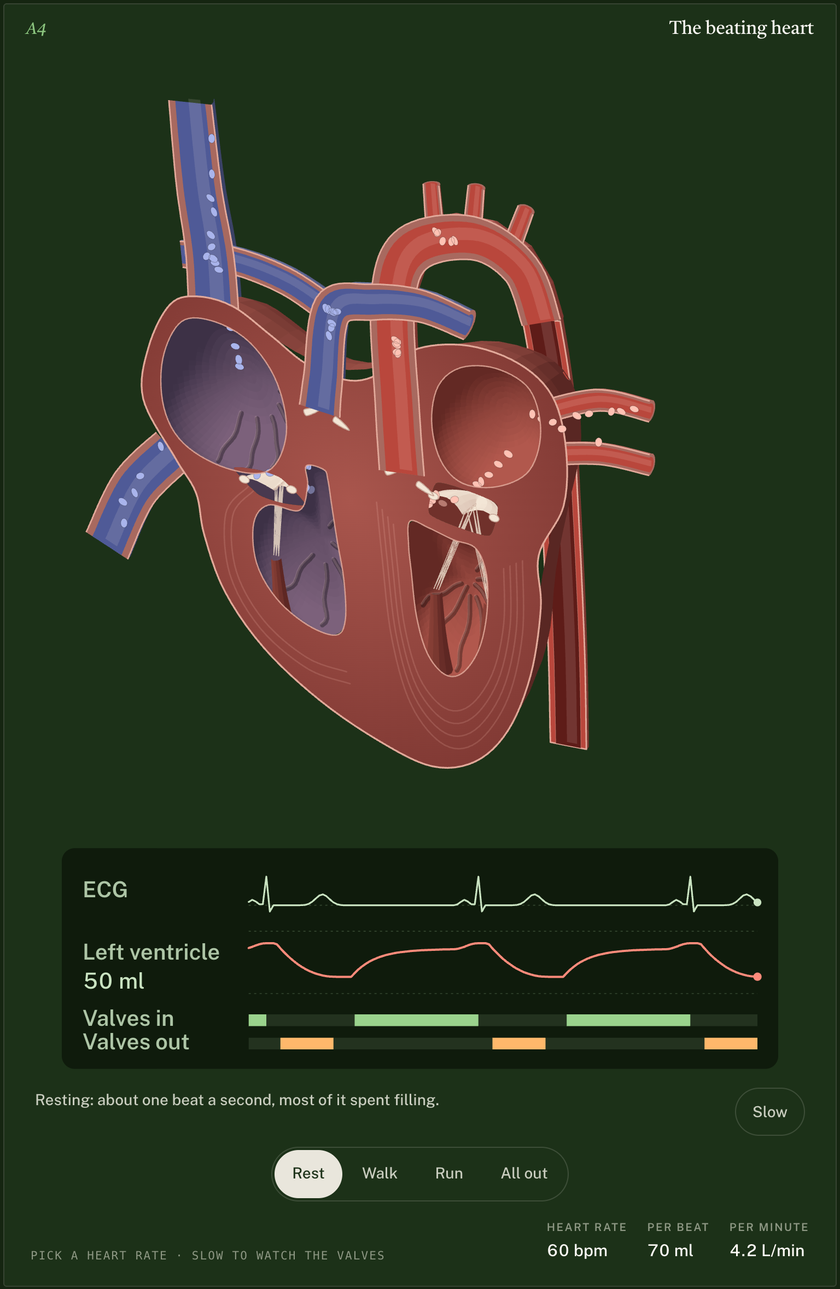
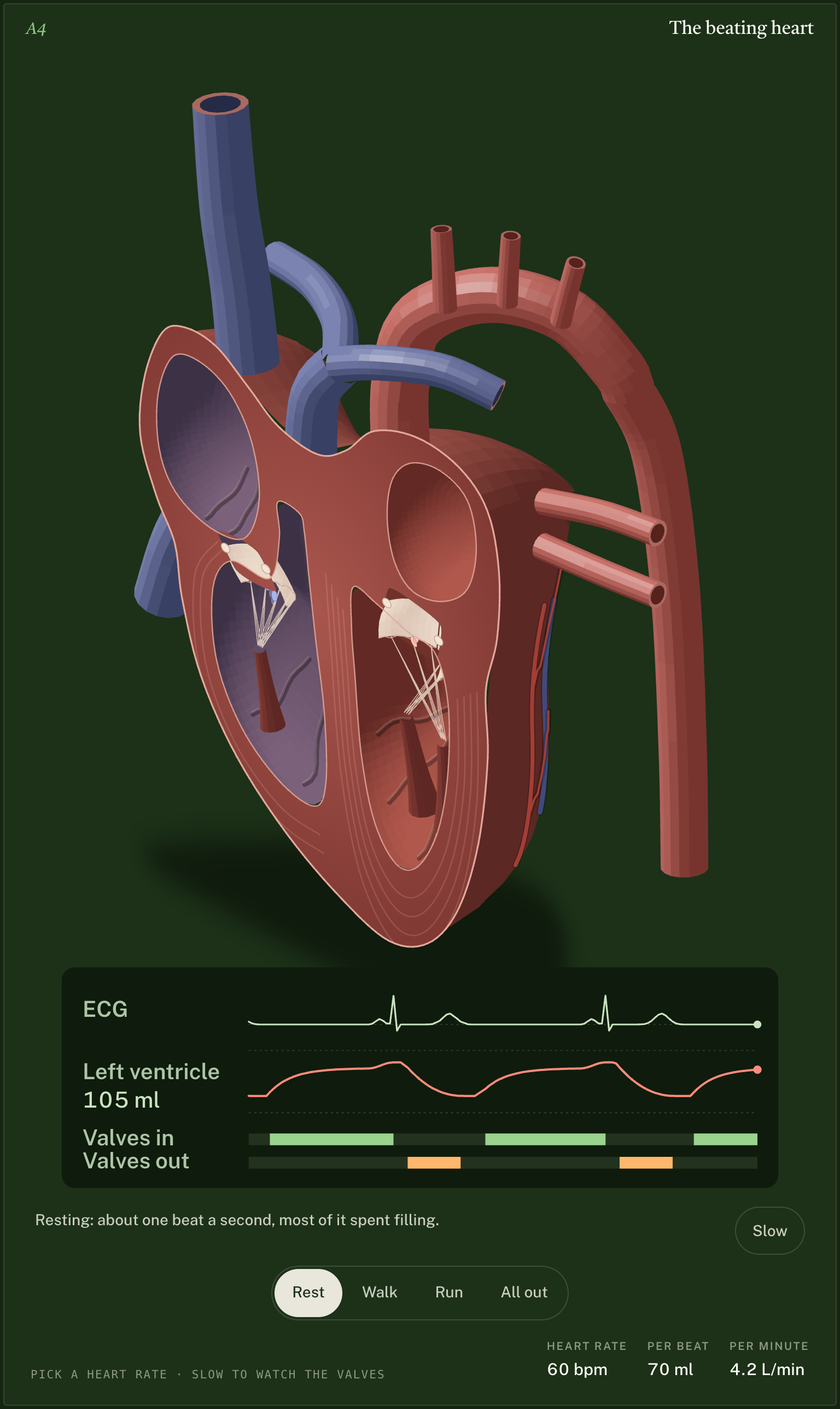
A4 heart round 5: more three-dimensional
Peter on round 4: "the heart needs to be MORE three dimensional please".

- Camera turned to azimuth 40°, elevation 26° for A4 only (the series uses
  62°/24°), so the heart's round right side and the vessels' depth show.
- Great vessels are now whole 3-D tubes: parallel-transport sweeps with
  specular highlights and cut-end caps (wall ring + lumen). Aortic arch with
  its three branches into the descending aorta (behind the heart), the
  pulmonary trunk splitting into left and right arteries, SVC and IVC, and
  two pulmonary veins.
- Back half is smoother (96 points, 14 bands) with a specular sheen and a
  coronary artery and vein with branches. Soft floor shadow underneath.
  Round 4's flat fat patch is removed.
- Cells, leaflets, chordae and papillary muscles are clipped to their
  openings, so nothing deep in a cavity draws over the cut muscle.
- Plate bounds respect outline winding (OUT_SIGN), which closes the gap
  under the heart. The monitor sits just below it.
- Beat model, numbers and timing unchanged. 60 fps at 390 px. verify passes
  at 390/360/320 in both themes.
- NOTES round 5, HANDOFF-LOCAL status, contact sheet and the beat GIF
  are refreshed.

diff --git a/figures/a4-heart/live.js b/figures/a4-heart/live.js
@@ -70,19 +70,6 @@ function mount(fig) {
     const closed = `${ln([...L, ...[...R].reverse()])}Z`;
     return sides ? { d: closed, edges: ln(L) + ln(R), L, R } : closed;
   }
-  /** A vessel, cut open lengthwise like the heart: a wall band each side, the blood down the middle with the
-   *  lit far wall of the half-pipe showing as a soft band. Its back half and cut ends are drawn behind the cut. */
-  const tubes = [];
-  function vessel(name, list, cls) {
-    let h = "";
-    for (const [pts, w0, w1, capA, capB] of list) {
-      tubes.push({ name, pts, w0, w1, cls, caps: [capA, capB] });
-      const t = tube(pts, w0, w1, true);
-      const lit = tube(pts, w0 * 0.28, w1 * 0.28, true);
-      h += `<path class="a4-${cls} a4-vessel a4-vessel-fill" d="${t.d}"/><path class="a4-lumen a4-lumen-${cls} a4-lumen-cut" d="${tube(pts, w0 * 0.7, w1 * 0.7)}"/><path class="a4-lumen-lit a4-lumen-lit-${cls}" d="${lit.d}" transform="translate(${f1(DATA.far.w[0] * w0 * 0.18)} ${f1(DATA.far.w[1] * w0 * 0.18)})"/><path class="a4-vessel-edge" d="${t.edges}"/>`;
-    }
-    q(`[data-v="${name}"]`).innerHTML = h;
-  }
   const centroid = (pts) => pts.reduce((a, p) => [a[0] + p[0] / pts.length, a[1] + p[1] / pts.length], [0, 0]);
   const C = { RA: centroid(G.RA), LA: centroid(G.LA), RV: centroid(G.RV), LV: centroid(G.LV), V: [320, 392] };
   const FIB = { lv: G.LV.filter((p) => p[1] > G.AVY + 16), rv: G.RV.slice(0, 6) };
@@ -131,6 +118,13 @@ function mount(fig) {
     const l = dot3(n, LIGHT);
     return 0.16 + 0.95 * Math.max(0, two ? Math.abs(l) : l);
   };
+  // wet surfaces (the heart's outer wall, the vessels) also catch a specular highlight
+  const HALF = norm3([LIGHT[0] + VIEW[0], LIGHT[1] + VIEW[1], LIGHT[2] + VIEW[2]]);
+  const shine = (n, tones, k = 0.5, pw = 26) => {
+    const base = mixc(tones[0], tones[1], Math.round(clamp(lit(n), 0, 1) * 24) / 24);
+    const sp = Math.round(k * Math.pow(Math.max(0, dot3(n, HALF)), pw) * 10) / 10;
+    return rgb(mixc(base, WHITE, sp));
+  };
   const quad = (pts) => `M${pts.map((v) => `${f1(v[0])} ${f1(v[1])}`).join("L")}Z`;
   const pathOf = (pts) => `M${pts.map((v) => `${f1(v[0])} ${f1(v[1])}`).join("L")}`;
   const cssc = (name, fb) => RB.rgbOf(fig, name, fb);
@@ -172,7 +166,7 @@ function mount(fig) {
     });
   }
   function backHalf(outline) {
-    const pts = closedRing(outline, 72);
+    const pts = closedRing(outline, 96);
     const n = pts.length;
     let area = 0;
     for (let i = 0; i < n; i++) area += pts[i][0] * pts[(i + 1) % n][1] - pts[(i + 1) % n][0] * pts[i][1];
@@ -192,7 +186,7 @@ function mount(fig) {
     };
     const normal = (i, ph) => norm3([Math.cos(ph) * nrm[i][0], -Math.sin(ph), -Math.cos(ph) * nrm[i][1]]);
     const facets = [];
-    const NPH = 9;
+    const NPH = 14;
     for (let i = 0; i < n; i++) {
       const i1 = (i + 1) % n;
       for (let j = 0; j < NPH; j++) {
@@ -201,7 +195,7 @@ function mount(fig) {
         const nn = normal(i, (p0 + p1) / 2);
         if (dot3(nn, VIEW) <= 0.01) continue;
         const a = at(i, p0), b = at(i1, p0), c = at(i1, p1), d = at(i, p1);
-        facets.push({ key: key3((a[0] + c[0]) / 2, (a[1] + c[1]) / 2, (a[2] + c[2]) / 2), d: quad([P3(...a), P3(...b), P3(...c), P3(...d)]), fill: tone(T.epi, lit(nn)) });
+        facets.push({ key: key3((a[0] + c[0]) / 2, (a[1] + c[1]) / 2, (a[2] + c[2]) / 2), d: quad([P3(...a), P3(...b), P3(...c), P3(...d)]), fill: shine(nn, T.epi, 0.42) });
       }
     }
     // surface vessels on the left side (viewer's right): the circumflex in the fat of the AV groove,
@@ -224,11 +218,24 @@ function mount(fig) {
       if (!groove(pts[i], nrm[i])) continue;
       const i1 = (i + 1) % n;
       if (!groove(pts[i1], nrm[i1]) || !visible(i, 0.6)) continue;
-      fat += quad([P3(...at(i, 0.18)), P3(...at(i1, 0.18)), P3(...at(i1, 1.0)), P3(...at(i, 1.0))]);
+      fat += quad([P3(...at(i, 0.85)), P3(...at(i1, 0.85)), P3(...at(i1, 1.5)), P3(...at(i, 1.5))]);
     }
-    const vein = runAlong(0.78, (p, nn) => right(p, nn) && p[1] > G.AVY - 10);
-    const artery = runAlong(0.52, (p, nn) => right(p, nn) && p[1] > G.AVY - 18);
-    const surf = `<path class="a4-epi-fat" d="${fat}" fill="${FAT}"/><path class="a4-cor-edge" d="${vein}"/><path class="a4-cor" d="${vein}" stroke="${COR_VEN}"/><path class="a4-cor-edge a4-cor-edge-a" d="${artery}"/><path class="a4-cor a4-cor-a" d="${artery}" stroke="${COR_ART}"/>`;
+    // (at this camera the back wall faces the viewer up to about 0.85 rad round from the cut)
+    const vein = runAlong(0.62, (p, nn) => right(p, nn) && p[1] > G.AVY - 10);
+    const artery = runAlong(0.4, (p, nn) => right(p, nn) && p[1] > G.AVY - 18);
+    // small branches off the marginal artery, running round the back wall
+    let twigs = "";
+    for (let i = 0; i < n; i += 8) {
+      if (!(right(pts[i], nrm[i]) && pts[i][1] > G.AVY + 20) || !visible(i, 0.4)) continue;
+      const tw = [];
+      for (let ph = 0.4; ph <= 0.8; ph += 0.05) {
+        const ii = Math.min(n - 1, i + Math.round((ph - 0.4) * 14));
+        if (visible(ii, ph)) tw.push(P3(...at(ii, ph)));
+      }
+      if (tw.length > 1) twigs += pathOf(tw);
+    }
+    void fat;
+    const surf = `<path class="a4-cor-edge" d="${vein}"/><path class="a4-cor" d="${vein}" stroke="${COR_VEN}"/><path class="a4-cor-edge a4-cor-edge-a" d="${artery}${twigs}"/><path class="a4-cor a4-cor-a" d="${artery}" stroke="${COR_ART}"/><path class="a4-cor a4-cor-twig" d="${twigs}" stroke="${COR_ART}"/>`;
     return { facets, surf };
   }
 
@@ -544,7 +551,6 @@ function mount(fig) {
     const contr = Math.min(1, Math.max(0, (b.edv - b.V) / (b.edv - b.esv)));
     def = { d: 15 * contr, sV, sA: b.A, sO: 1 - 0.22 * (1 - sV) };
     const sAt = 0.78 + 0.22 * b.A;
-    tubes.length = 0;
     const outline = outer();
     const outerD = smooth(outline);
     set('[data-part="outer"]', outerD);
@@ -558,37 +564,9 @@ function mount(fig) {
       LV: chamber(shapes.LV, 0.82 * (0.85 + 0.15 * sV), T.cavL, RIDGE.LV),
     };
     for (const k of ["RA", "LA", "RV", "LV"]) set(`[data-part="clip${k}"]`, cham[k].outline);
-    // vessels: tops fixed, roots ride the valve plane
-    vessel("svc", [[[[158, -12], [166, 60], [176, 120], shift([180, 176])], 38, 46, false, false]], "ven");
-    vessel("ivc", [[[[84, 384], [108, 330], shift([142, 276])], 40, 38, true, false]], "ven");
-    vessel("desc", [[[[470, 110], [480, 170], [486, 260], [492, 380], [494, 470]], 34, 32, false, true]], "art");
-    vessel("aorta", [[[shift(G.AORc), shift([342, 196]), [338, 120], [356, 72], [410, 52], [452, 70], [470, 112]], 40, 36, false, false]], "art");
-    vessel("branches", [[[[376, 60], [372, 14]], 16, 14, false, true], [[[408, 52], [412, 8]], 16, 14, false, true], [[[440, 62], [456, 18]], 16, 14, false, true]], "art");
-    vessel("pt", [[[shift(G.PULc), shift([276, 186]), [284, 140], [318, 126], [362, 120], [404, 128]], 36, 26, false, true]], "ven");
-    vessel("rpa", [[[[284, 142], [244, 124], [196, 116], [150, 120]], 26, 22, false, true]], "ven");
-    vessel("pv", [[[[566, 168], [520, 168], shift([466, 176])], 18, 18, true, false], [[[566, 214], [520, 214], shift([464, 212])], 18, 18, true, false]], "art");
     // the back half: round outer wall with its surface vessels, and the vessels' back halves
     const back = backHalf(outline);
-    const LUMEN = { ven: rgb(VEN), art: rgb(ART) };
-    const WALL = rgb(cssc("--a4-vwall", "#f3d9cf"));
-    const backOf = (t) => {
-      const c = RB.byLength(curve(t.pts), 14);
-      const Ae = [];
-      const Be = [];
-      c.forEach((p, i) => {
-        const a = c[Math.max(0, i - 1)];
-        const bb = c[Math.min(c.length - 1, i + 1)];
-        const l = Math.hypot(bb[0] - a[0], bb[1] - a[1]) || 1;
-        const nn = [-(bb[1] - a[1]) / l, (bb[0] - a[0]) / l];
-        const w = (t.w0 + (t.w1 - t.w0) * (i / (c.length - 1))) / 2;
-        Ae.push([p[0] + nn[0] * w, p[1] + nn[1] * w]);
-        Be.push([p[0] - nn[0] * w, p[1] - nn[1] * w]);
-      });
-      return RB.chords(Ae, Be, { round: 1, nphi: 10, tones: T[t.cls], caps: t.caps, capFill: WALL, lumenFill: LUMEN[t.cls] });
-    };
-    // the descending aorta runs behind the heart: its back half (and its cut face) go under the heart's back half
-    q('[data-part="behind"]').innerHTML = RB.paintObjects(tubes.filter((t) => t.name === "desc").map(backOf));
-    q('[data-part="far"]').innerHTML = RB.paintObjects([back.facets, ...tubes.filter((t) => t.name !== "desc").map(backOf)]) + back.surf;
+    q('[data-part="far"]').innerHTML = RB.paintObjects([back.facets]) + back.surf;
     // inside the cavities: walls and ridges, valves, papillary muscles, chordae and cells
     const tri = avValve(G.TRI[0], G.TRI[1], b.av, C.RV, 27);
     const mit = avValve(G.MIT[0], G.MIT[1], b.av, C.LV, 31);
@@ -635,18 +613,28 @@ function mount(fig) {
     ]
       .map(([a, p]) => [-2.2, 0, 2.2].map((o) => `M${P3(...a).map(f1).join(" ")}L${P3(p[0] + o, p[1] - 3, p[2]).map(f1).join(" ")}`).join(""))
       .join("");
-    const side = (s) => chamberCells.filter((c) => c.side === s);
+    // each cell is clipped to the opening of the chamber it is in (deep cells would otherwise show outside the heart)
+    const roomOf = (c) => (c.stage === 1 ? (c.side === "R" ? "RA" : "LA") : c.side === "R" ? "RV" : "LV");
+    const cellsIn = (deep) =>
+      ["RA", "LA", "RV", "LV"]
+        .map((k) => {
+          const list = chamberCells.filter((c) => roomOf(c) === k);
+          const cls = k[0] === "R" ? "a4-cell-ven" : "a4-cell-art";
+          return list.length ? `<g clip-path="url(#a4-clip${k})"><path class="a4-cell ${cls}${deep ? " a4-cell-deep" : ""}" d="${cellPath(list, deep)}"/></g>` : "";
+        })
+        .join("");
     cavSvg +=
-      `<path class="a4-cell a4-cell-ven a4-cell-deep" d="${cellPath(side("R"), true)}"/><path class="a4-cell a4-cell-art a4-cell-deep" d="${cellPath(side("L"), true)}"/>` +
-      `<path class="a4-annulus-ring" d="${tri.ring}${mit.ring}"/>` +
+      cellsIn(true) +
+      `<g clip-path="url(#a4-clipAll)"><path class="a4-annulus-ring" d="${tri.ring}${mit.ring}"/>` +
       RB.paint(papFacets) +
       leafFacets.map((f) => `<path d="${f.d}" fill="${f.fill}" stroke="${f.fill}" stroke-width="0.6" class="a4-leaf"/>`).join("") +
       `<path class="a4-leaf-edge" d="${tri.edgeD}${mit.edgeD}"/>` +
-      `<path class="a4-chordae" d="${chordD}"/>` +
-      `<path class="a4-cell a4-cell-ven" d="${cellPath(side("R"), false)}"/><path class="a4-cell a4-cell-art" d="${cellPath(side("L"), false)}"/>`;
+      `<path class="a4-chordae" d="${chordD}"/></g>` +
+      cellsIn(false);
     q('[data-part="cav"]').innerHTML = cavSvg;
     // the cut face: muscle with the chamber openings (and the AV orifices) cut out of it
     set('[data-part="holes"]', ["RA", "LA", "RV", "LV"].map((k) => cham[k].outline).join("") + orifice(tri) + orifice(mit));
+    set('[data-part="clipAll"]', ["RA", "LA", "RV", "LV"].map((k) => cham[k].outline).join("") + orifice(tri) + orifice(mit));
     set('[data-part="rims"]', ["RA", "LA", "RV", "LV"].map((k) => cham[k].outline).join(""));
     set('[data-part="annuli"]', [...tri.ends, ...mit.ends].map((p) => `M${f1(p[0] - 4.5)} ${f1(p[1])}a4.5 3.2 0 1 0 9 0a4.5 3.2 0 1 0 -9 0Z`).join(""));
     // muscle fibres in the cut wall wrap the ventricles and squeeze with them
@@ -654,12 +642,107 @@ function mount(fig) {
     const sMid = (sV + def.sO) / 2;
     set('[data-part="fibres"]', [1.12, 1.24, 1.36, 1.48].map((k) => fib(FIB.lv, C.LV, k, sMid)).join("") + [1.1, 1.2].map((k) => fib(FIB.rv, C.RV, k, sMid)).join(""));
     set('[data-part="valves"]', semilunar(b));
-    // cells in the vessels (on the cut, in the open half-pipes)
-    const vesselCells = cells.filter((c) => c.stage === 0 || c.stage === 5);
-    for (const s of ["R", "L"]) {
-      const list = vesselCells.filter((c) => c.side === s);
-      set(`[data-part="vcells${s}"]`, list.map((c) => { const p = P3(c.p[0], c.p[1], c.d * 0.6); return disc(p[0], p[1], c.a, 4, 2.7); }).join(""));
+  }
+
+
+  // ---------------------------------------------------------------- the great vessels: whole tubes in 3-D (drawn once)
+  // Their visible parts (outside the heart) don't move with the beat, so they are built once. Each is a tube round
+  // a Catmull-Rom centreline in depth, framed by parallel transport, culled, lit with a specular highlight and
+  // painted back to front; a cut end shows as a ring of wall round the blood.
+  function tube3(ctrl, r0, r1, tones, caps) {
+    const cr = (p0, p1, p2, p3, t) => {
+      const t2 = t * t, t3 = t2 * t;
+      return [0, 1, 2].map((c) => 0.5 * (2 * p1[c] + (-p0[c] + p2[c]) * t + (2 * p0[c] - 5 * p1[c] + 4 * p2[c] - p3[c]) * t2 + (-p0[c] + 3 * p1[c] - 3 * p2[c] + p3[c]) * t3));
+    };
+    const dense = [];
+    for (let i = 0; i < ctrl.length - 1; i++) {
+      const p0 = ctrl[Math.max(0, i - 1)], p1 = ctrl[i], p2 = ctrl[i + 1], p3 = ctrl[Math.min(ctrl.length - 1, i + 2)];
+      for (let k = 0; k < 12; k++) dense.push(cr(p0, p1, p2, p3, k / 12));
     }
+    dense.push(ctrl[ctrl.length - 1]);
+    const acc = [0];
+    for (let i = 1; i < dense.length; i++) acc.push(acc[i - 1] + Math.hypot(dense[i][0] - dense[i - 1][0], dense[i][1] - dense[i - 1][1], dense[i][2] - dense[i - 1][2]));
+    const L = acc[acc.length - 1];
+    const M = Math.max(6, Math.round(L / 7));
+    const cs = [];
+    for (let q = 0, j = 0; q < M; q++) {
+      const want = (L * q) / (M - 1);
+      while (j < acc.length - 2 && acc[j + 1] < want) j++;
+      const t = (want - acc[j]) / (acc[j + 1] - acc[j] || 1);
+      cs.push(dense[j].map((v, c) => v + (dense[j + 1][c] - v) * t));
+    }
+    const tan = cs.map((p, i) => {
+      const a = cs[Math.max(0, i - 1)];
+      const b = cs[Math.min(cs.length - 1, i + 1)];
+      return norm3(toW([b[0] - a[0], b[1] - a[1], b[2] - a[2]]));
+    });
+    let nrm = norm3(cross3(cross3(tan[0], [0, 0, 1]), tan[0]));
+    if (!isFinite(nrm[0]) || Math.hypot(...nrm) < 0.5) nrm = norm3(cross3(cross3(tan[0], [1, 0, 0]), tan[0]));
+    const N = 16;
+    const rings = cs.map((c, i) => {
+      if (i) {
+        const d = dot3(nrm, tan[i]);
+        nrm = norm3([nrm[0] - d * tan[i][0], nrm[1] - d * tan[i][1], nrm[2] - d * tan[i][2]]);
+      }
+      const bin = cross3(tan[i], nrm);
+      const r = r0 + (r1 - r0) * (i / (cs.length - 1));
+      return Array.from({ length: N }, (_, j) => {
+        const a = (j / N) * 2 * Math.PI;
+        const v = [nrm[0] * Math.cos(a) + bin[0] * Math.sin(a), nrm[1] * Math.cos(a) + bin[1] * Math.sin(a), nrm[2] * Math.cos(a) + bin[2] * Math.sin(a)];
+        return { p: [c[0] + v[0] * r, c[1] - v[2] * r, c[2] - v[1] * r], v };
+      });
+    });
+    const facets = [];
+    for (let i = 0; i < rings.length - 1; i++)
+      for (let j = 0; j < N; j++) {
+        const a = rings[i][j], b = rings[i][(j + 1) % N], c = rings[i + 1][(j + 1) % N], d = rings[i + 1][j];
+        const nn = norm3([a.v[0] + b.v[0] + c.v[0] + d.v[0], a.v[1] + b.v[1] + c.v[1] + d.v[1], a.v[2] + b.v[2] + c.v[2] + d.v[2]]);
+        if (dot3(nn, VIEW) <= 0) continue;
+        facets.push({ key: key3((a.p[0] + c.p[0]) / 2, (a.p[1] + c.p[1]) / 2, (a.p[2] + c.p[2]) / 2), d: quad([P3(...a.p), P3(...b.p), P3(...c.p), P3(...d.p)]), fill: shine(nn, tones) });
+      }
+    [0, rings.length - 1].forEach((i, e) => {
+      if (!caps[e]) return;
+      const out = e ? tan[i] : tan[i].map((v) => -v);
+      if (dot3(out, VIEW) <= 0.02) return;
+      const c = cs[i];
+      const k = key3(c[0], c[1], c[2]) + 1;
+      facets.push({ key: k, d: quad(rings[i].map((x) => P3(...x.p))), fill: rgb(cssc("--a4-vwall", "#f3d9cf")) });
+      facets.push({ key: k + 0.01, d: quad(rings[i].map((x) => P3(c[0] + (x.p[0] - c[0]) * 0.72, c[1] + (x.p[1] - c[1]) * 0.72, c[2] + (x.p[2] - c[2]) * 0.72))), fill: rgb(mixc(tones[0], BLACK, 0.15)) });
+    });
+    facets.sort((x, y) => x.key - y.key);
+    return facets.map((f) => `<path d="${f.d}" fill="${f.fill}" stroke="${f.fill}" stroke-width="0.6" stroke-linejoin="round"/>`).join("");
+  }
+  {
+    const svgOf = (list) => list.map((v) => tube3(v.pts, v.r[0], v.r[1], T[v.cls], v.caps)).join("");
+    q('[data-part="behind"]').innerHTML = svgOf(DATA.v3.filter((v) => v.behind));
+    q('[data-part="vessels"]').innerHTML = svgOf(DATA.v3.filter((v) => !v.behind));
+    // a soft shadow on the floor under the heart (its outline and back half dropped straight down)
+    const pts = [];
+    const ring = closedRing(G.OUT, 48, 2);
+    const [cx, cy] = centroid(ring);
+    ring.forEach((p) => {
+      const r = 0.92 * Math.hypot(p[0] - cx, p[1] - cy);
+      for (const ph of [0, 0.6, 1.2, Math.PI / 2]) {
+        const u = [(p[0] - cx) / (r / 0.92), (p[1] - cy) / (r / 0.92)];
+        pts.push(P3(p[0] - u[0] * (1 - Math.cos(ph)) * r, DATA.floorY, Math.sin(ph) * r * 0.85));
+      }
+    });
+    const hull = (P) => {
+      const a = [...P].sort((m, n) => m[0] - n[0] || m[1] - n[1]);
+      const cr2 = (o, m, n) => (m[0] - o[0]) * (n[1] - o[1]) - (m[1] - o[1]) * (n[0] - o[0]);
+      const lo = [];
+      for (const v of a) {
+        while (lo.length >= 2 && cr2(lo[lo.length - 2], lo[lo.length - 1], v) <= 0) lo.pop();
+        lo.push(v);
+      }
+      const up = [];
+      for (const v of [...a].reverse()) {
+        while (up.length >= 2 && cr2(up[up.length - 2], up[up.length - 1], v) <= 0) up.pop();
+        up.push(v);
+      }
+      return [...lo.slice(0, -1), ...up.slice(0, -1)];
+    };
+    set('[data-part="floor"]', smooth(hull(pts), true, 0.8));
   }
 
   // ---------------------------------------------------------------- state, input, tour

diff --git a/figures/a4-heart/figure.css b/figures/a4-heart/figure.css
@@ -75,10 +75,11 @@
 .a4-leaf-edge { fill: none; stroke: var(--a4-valve-edge); stroke-width: 1.1; stroke-linecap: round; stroke-linejoin: round; opacity: 0.8; }
 .a4-cell-deep { opacity: 0.5; }
 .a4-epi-fat { opacity: 0.88; }
-.a4-cor { fill: none; stroke-width: 3.2; stroke-linecap: round; stroke-linejoin: round; }
-.a4-cor-edge { fill: none; stroke: rgba(0, 0, 0, 0.22); stroke-width: 5.2; stroke-linecap: round; stroke-linejoin: round; }
-.a4-cor-a { stroke-width: 2.6; }
-.a4-cor-edge.a4-cor-edge-a { stroke-width: 4.4; }
+.a4-cor { fill: none; stroke-width: 4.4; stroke-linecap: round; stroke-linejoin: round; }
+.a4-cor-edge { fill: none; stroke: rgba(0, 0, 0, 0.22); stroke-width: 6.6; stroke-linecap: round; stroke-linejoin: round; }
+.a4-cor-a { stroke-width: 3.6; }
+.a4-cor-twig { stroke-width: 1.8; }
+.a4-cor-edge.a4-cor-edge-a { stroke-width: 5.4; }
 .a4-lumen-lit { stroke: none; }
 .a4-lumen-lit-ven, .a4-lumen-lit-art { fill: var(--a4-lumen-lit); }
 .a4-mon-label { fill: var(--a4-ecg); font: 600 17px/1 var(--opt-ui); opacity: 0.85; }
@@ -88,3 +89,6 @@
 .a4-bar-out { fill: var(--a4-bar-out); }
 .a4-vol { fill: none; stroke: var(--a4-vol); stroke-width: 2; stroke-linejoin: round; stroke-linecap: round; }
 .a4-vol-dot { fill: var(--a4-vol); }
+.a4-floor { fill: var(--a4-floor); filter: blur(10px); }
+.iso.optimal { --a4-floor: rgba(0, 0, 0, 0.45); }
+.iso.optimal[data-theme="light"] { --a4-floor: rgba(90, 40, 30, 0.16); }

diff --git a/HANDOFF-LOCAL.md b/HANDOFF-LOCAL.md
@@ -34,7 +34,7 @@ claude                                # Claude Code reads CLAUDE.md on start
 | A1 | Gut cell's gate | **Round 2 · 3-D block** (2026-10-12): brush border of 272 microvilli on top, cells cut on the right end, capillary half-tube | `a1-gut-cell` |
 | A2 | Hot-flash switch (hypothalamus) | **Round 3 · 3-D brain block** (2026-10-12): top cut at the thalamus, end cut, pituitary/stalk/chiasm/nerve/sella halved with round backs; treatment states as before | `a2-hypothalamus` |
 | A3 | Finger's heat valves · 3-D | **Approved look** ("a3b is great"). The A3b block build folded into A3 on 2026-10-12; flat A3 and `a3b-skin-block` retired | `a3-finger-skin` |
-| A4 | Beating heart | **Round 4 · 3-D heart** (2026-10-12, Peter: "make that much more three dimensional"): cavities with ridged walls, papillary muscles, chordae and 3-D leaflets, a vessel-lined back half, cells at depth with a filling swirl, and an ECG + LV volume + valve-timing monitor | `a4-heart` |
+| A4 | Beating heart | **Round 5 · more 3-D** (2026-10-12, Peter: "MORE three dimensional"): camera turned to 40°/26° (deliberately off the series 62°/24°), whole 3-D great vessels with caps (aortic arch + branches, PA split, cavae, pulmonary veins), a shining round back half with coronaries, a floor shadow; round 4's cavities, papillary muscles, chordae, 3-D leaflets, cells at depth and the ECG + LV volume + valve-timing monitor stay | `a4-heart` |
 | A5 | Air sac and red cell | **Round 2 · 3-D block of lung** (2026-10-12): Voronoi foam cut on three faces, one sac opened with its bowl, duct to the top | `a5-alveolus` |
 | A6 | Red cell's 120 days | **Round 3 · 3-D, cut in half** (2026-10-12): bone cut lengthwise, spleen cut open, arc and return as half-pipes, all with round backs | `a6-red-cell-cycle` |
 | A7 | Kneecap's load | **Round 2 · 3-D, leg cut in half** (2026-10-12): far half stays round (live), thigh cross-section on top. Peter: "way better, just do it like this", so it became the organ-piece approach | `a7-knee` |
@@ -67,18 +67,18 @@ Every figure folder holds:
 11. **A1: yes, convert to 3-D.**
 12. **A2, A4, A6 and A7 go 3-D too.** Pick the best approach from §5.2, build it on A7 (knee) first, and send screenshots. Wait for Peter's OK before converting A2, A4 and A6 the same way.
 13. **The organ approach is "cut in half, far half round."** A first try on A7, a constant-thickness slab, read as "an unnatural slice of some kind". The leg cut in half lengthwise, with the far half keeping its round skin and the thigh's cross-section on top, got "this is way better man just do it like this". A2 (as a brain block, since it's a piece of tissue cut out), A4 and A6 followed (§6b).
-14. **The heart animation "looks not great", then "make that much more three dimensional … the animation needs more complexity".** Round 4 rebuilt everything behind the cut in true 3-D, with more motion and a richer monitor (A4 NOTES, round 4). Peter's verdict on round 4 is pending.
+14. **The heart animation "looks not great", then "make that much more three dimensional … the animation needs more complexity".** Round 4 rebuilt everything behind the cut in true 3-D, with more motion and a richer monitor (A4 NOTES, round 4). Peter: "the heart needs to be MORE three dimensional". Round 5 turned the camera to azimuth 40°, elevation 26° (A4 only; it deliberately breaks from the series camera) and made the great vessels whole 3-D tubes, with a shining back half, coronaries and a floor shadow (A4 NOTES, round 5). Peter's verdict on round 5 is pending.
 
 ## 4. Open questions for Peter
 
-- **The heart (A4), round 4:** is this the 3-D you wanted? Anything to push further (twist of the ventricles, coronary detail, a pressure–volume loop with sourced pressures)?
+- **The heart (A4), round 5:** is this 3-D enough? A4's camera is now off the series (40°/26° vs 62°/24°): keep it, or turn the rest to match? Anything further: a slow turntable, twist of the ventricles, a pressure–volume loop with sourced pressures?
 - **Placement:** see `review/site-placement.md` (the beoptimal.ca scan), which proposes a home for every figure.
 - **Network:** with `beoptimal.ca`, `bici.cc` and `inbodycanada.ca` allowed (or locally), re-read the site pages directly instead of PDFs.
 - ~~Creator 600 screen size~~, ~~A3 vs A3b~~, ~~A1 look~~, ~~organ-piece approach~~: answered 2026-10-12, see §3.
 
 ## 5. Next steps (priority order)
 
-1. **Peter's call on the heart (A4).** Then any round-4 changes.
+1. **Peter's call on the heart (A4), round 5.** Then any changes.
 2. **Embeds on the site:** use the placement map (`review/site-placement.md`). Each figure ships `embed/optimal-fig-<slug>.js`, and NOTES.md has the snippet. The site repo (`BeOptimal/beoptimal-landing`) is a separate handoff.
 3. **Site copy fix:** the Creator 600 page says "32″ upright display"; it's about 50″ (§3 item 9).
 4. **Truth pass with the network open:** re-check the MEDIUM/LOW rows in `reference/truth-pack.md`.

diff --git a/figures/a4-heart/NOTES.md b/figures/a4-heart/NOTES.md
@@ -128,3 +128,28 @@ The section is still the cut face (series camera, azimuth 62°, elevation 24°),
 - Reduced motion draws one still mid-ejection, with the traces filled in.
 - Captures: `shots/phone-{390,360,320}-{dark,light}.png`, `shots/desktop-{dark,light}.png`, `shots/desktop-max-{dark,light}.png` and `shots/reduced-390-*.png`.
 - One beat, slowed, frame by frame: `review/a4-beat-sheet.png`.
+
+## Round 5 (2026-10-12): more three-dimensional
+
+Peter on round 4: "the heart needs to be MORE three dimensional please". The beat model, timing, numbers and caption facts are unchanged. What changed:
+- **Camera:** azimuth 40°, elevation 26°, where the series uses 62° / 24°. This deliberately breaks from the series: the heart turns further toward the viewer, so its round right side and the vessels' depth show. The cut face is still the same section.
+- **Great vessels are whole 3-D tubes** (`tube3` in `live.js`), not half-pipes on the cut. Each is swept along a 3-D centre line with parallel-transport frames (16 sides), shaded by facing with a specular highlight, and capped where it's cut with a wall ring and a dark lumen.
+  - The aortic arch carries its three branches (brachiocephalic, left common carotid, left subclavian) and becomes the descending aorta, which runs behind the heart.
+  - The pulmonary trunk splits into left and right pulmonary arteries.
+  - The SVC and IVC run into the right atrium.
+  - Two pulmonary veins come out of the left atrium.
+- **Back half:**
+  - smoother (96 points round, 14 bands) with a specular sheen, so it reads as a shining round muscle rather than a band;
+  - a coronary artery and its vein, with branches, running along the visible back wall;
+  - a soft floor shadow under the heart ties it to the ground.
+  - The flat epicardial-fat patch from round 4 is gone, because it read as a sticker.
+- **Depth inside:** blood cells are clipped to their own chamber's opening, and the leaflets, chordae and papillary muscles to the openings, so nothing deep in a cavity draws over the cut muscle.
+- **Fix:** the plate bounds now take each outline's winding into account (`OUT_SIGN`), so the outward normals are right and the gap under the heart is gone. The monitor sits just under the heart.
+- **Performance:** 60 fps in headless Chrome at 390 px.
+
+### Verification (round 5)
+
+- `node scripts/verify.mjs a4-heart`: passed. Phones 390/360/320 fit in both themes, reduced motion is still, `lines.mjs` reports 0, and the console is clean.
+- Captures: `shots/phone-{390,360,320}-{dark,light}.png`, `shots/desktop-{dark,light}.png` and `shots/desktop-max-{dark,light}.png` (All out).
+- One beat, slowed: `review/a4-heart-beat.gif`.
+
